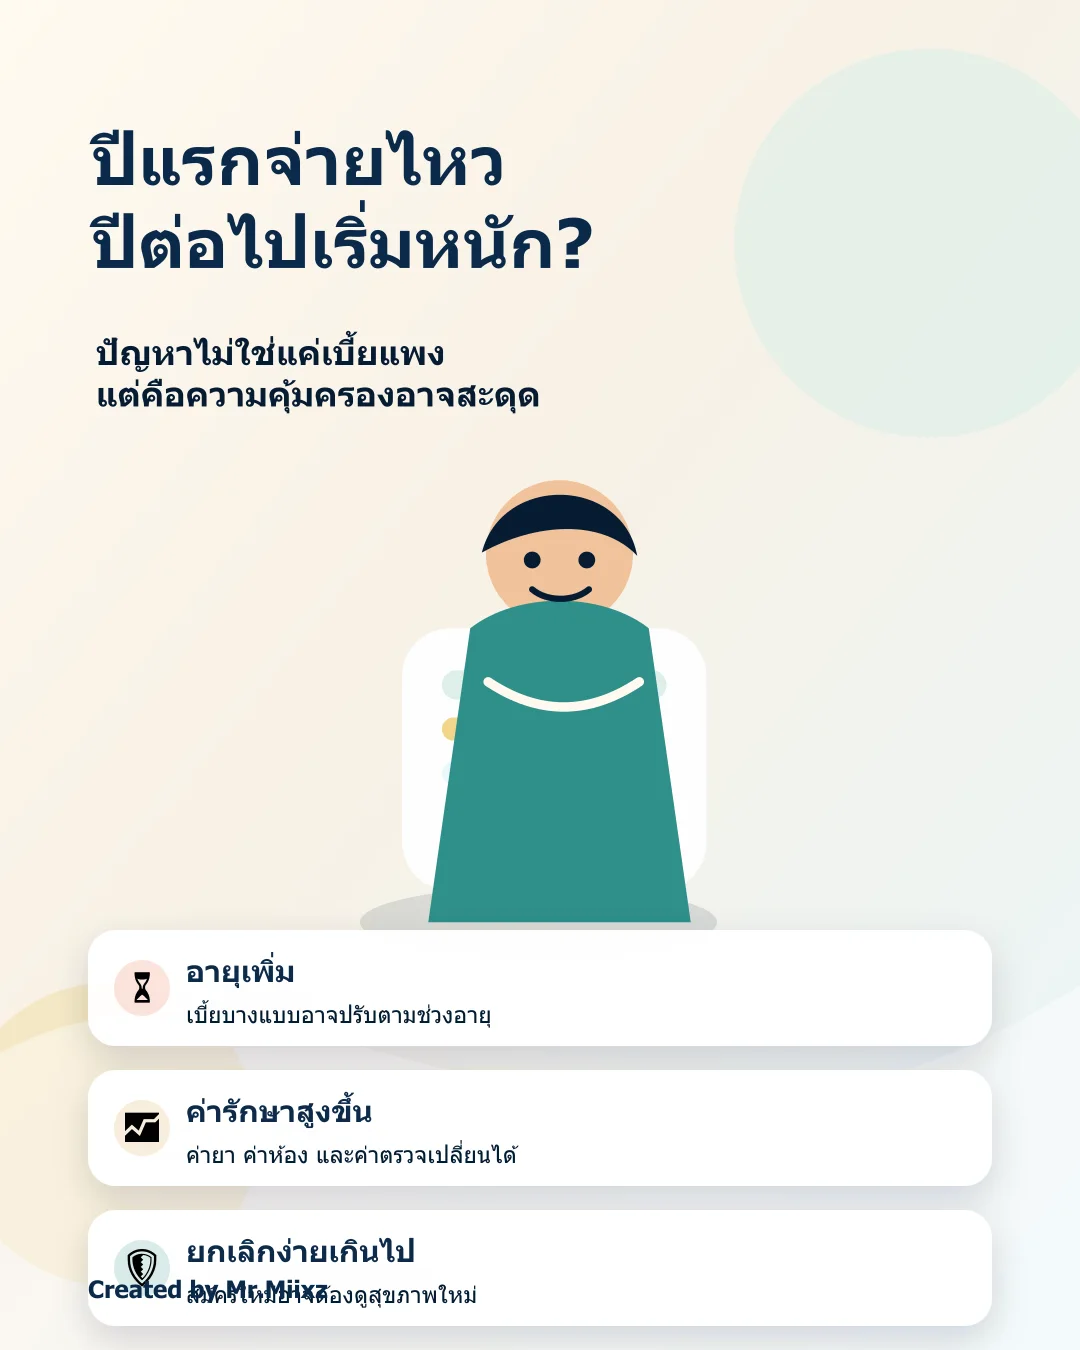
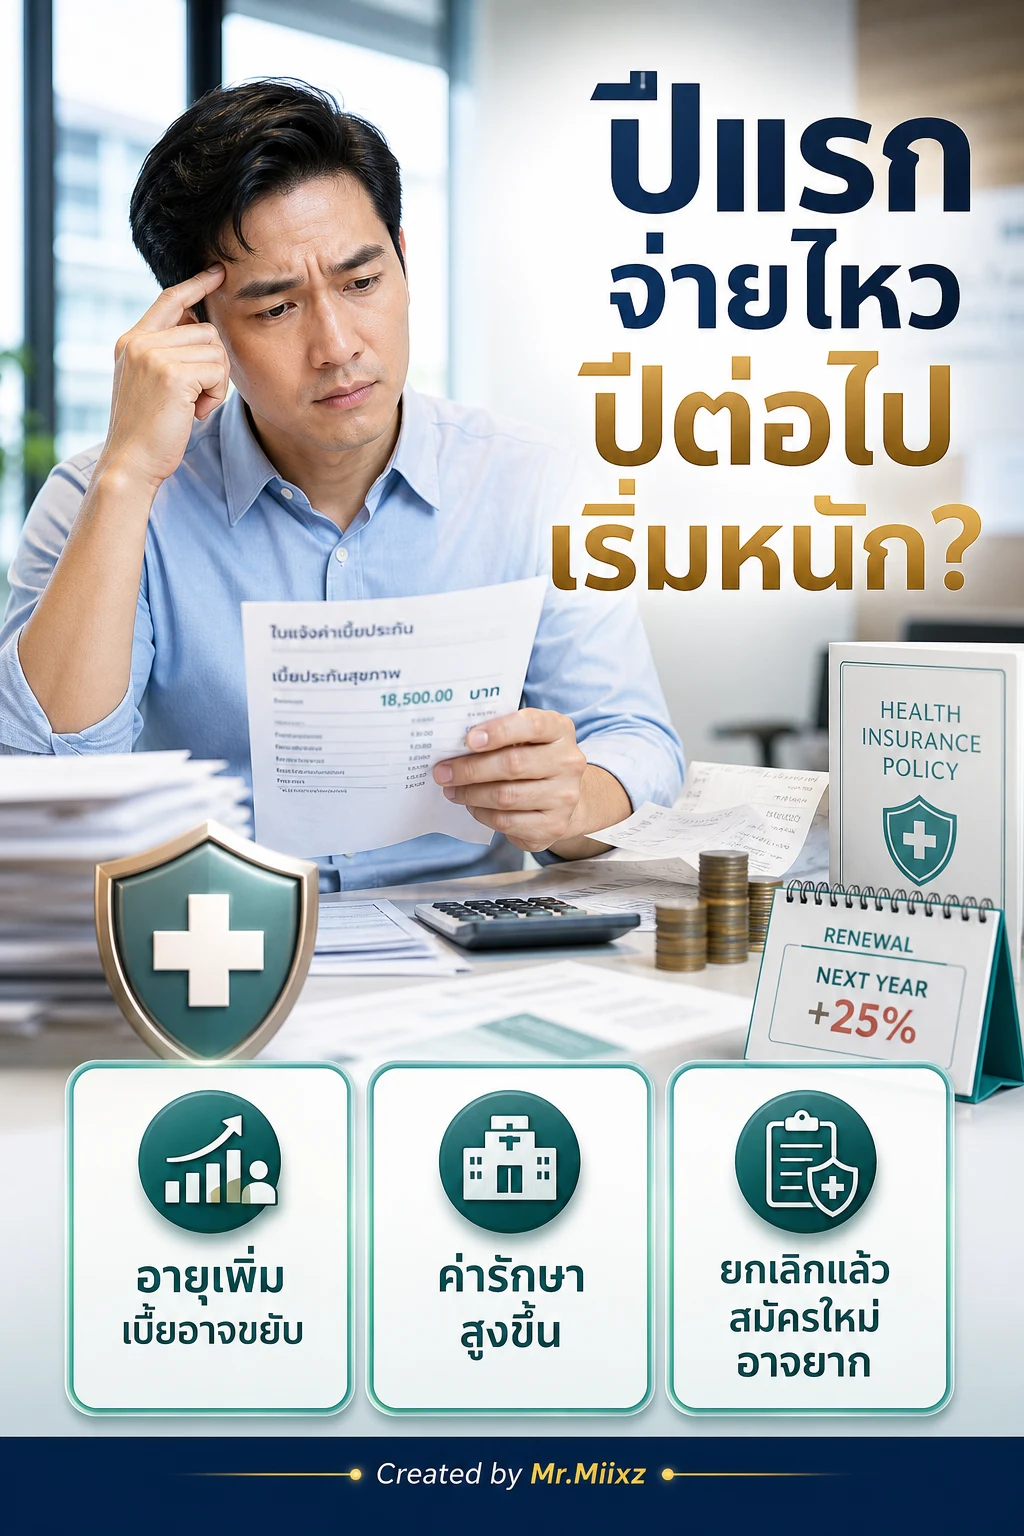
Replace premium article images with PKStyle set

diff --git a/publishing/AGENT_OUTPUT_health-insurance-premium-increase-by-age-2569_2026-05-26.md b/publishing/AGENT_OUTPUT_health-insurance-premium-increase-by-age-2569_2026-05-26.md
@@ -32,9 +32,11 @@ If reconnect/compaction happens, continue from this checkpoint instead of restar
 
 Batch topic: เบี้ยประกันสุขภาพเพิ่มตามอายุ วางแผนยังไงไม่ให้จ่ายไม่ไหว
 Automation basis: insurance-full-pipeline-daily-output + SEO writer/publisher draft prompts.
-Visual system: PKStyle five-image set, generated locally as optimized website assets.
+Visual system: PKStyle five-image set, regenerated as premium photorealistic AI images after visual QA feedback.
 Validation: article validator passed; npm build passed on 2026-05-26.
 Live publish status: published via GitHub push to main; Cloudflare Pages deployment 926419f7 succeeded.
 Live article: https://insurance-by-miixz.pages.dev/blog/health-insurance-premium-increase-by-age-2569/
 Live share page: https://insurance-by-miixz.pages.dev/share/health-insurance-premium-increase-by-age-2569/
 Rule update: user approved publishing by default after validation/build for future website article batches unless explicitly marked draft/review-only.
+Image quality correction: old vector/template images replaced with photorealistic premium ad-style images; Thai text typos corrected before publish.
+Image update 2026-05-26 11:16 Asia/Bangkok: replaced the website assets with the visually reviewed PKStyle AI image set. Cover, problem, explanation, solution, CTA, and OG images were regenerated from the approved premium photoreal direction. Local image path checks passed. Astro check/build passed with 0 errors and 0 warnings.
